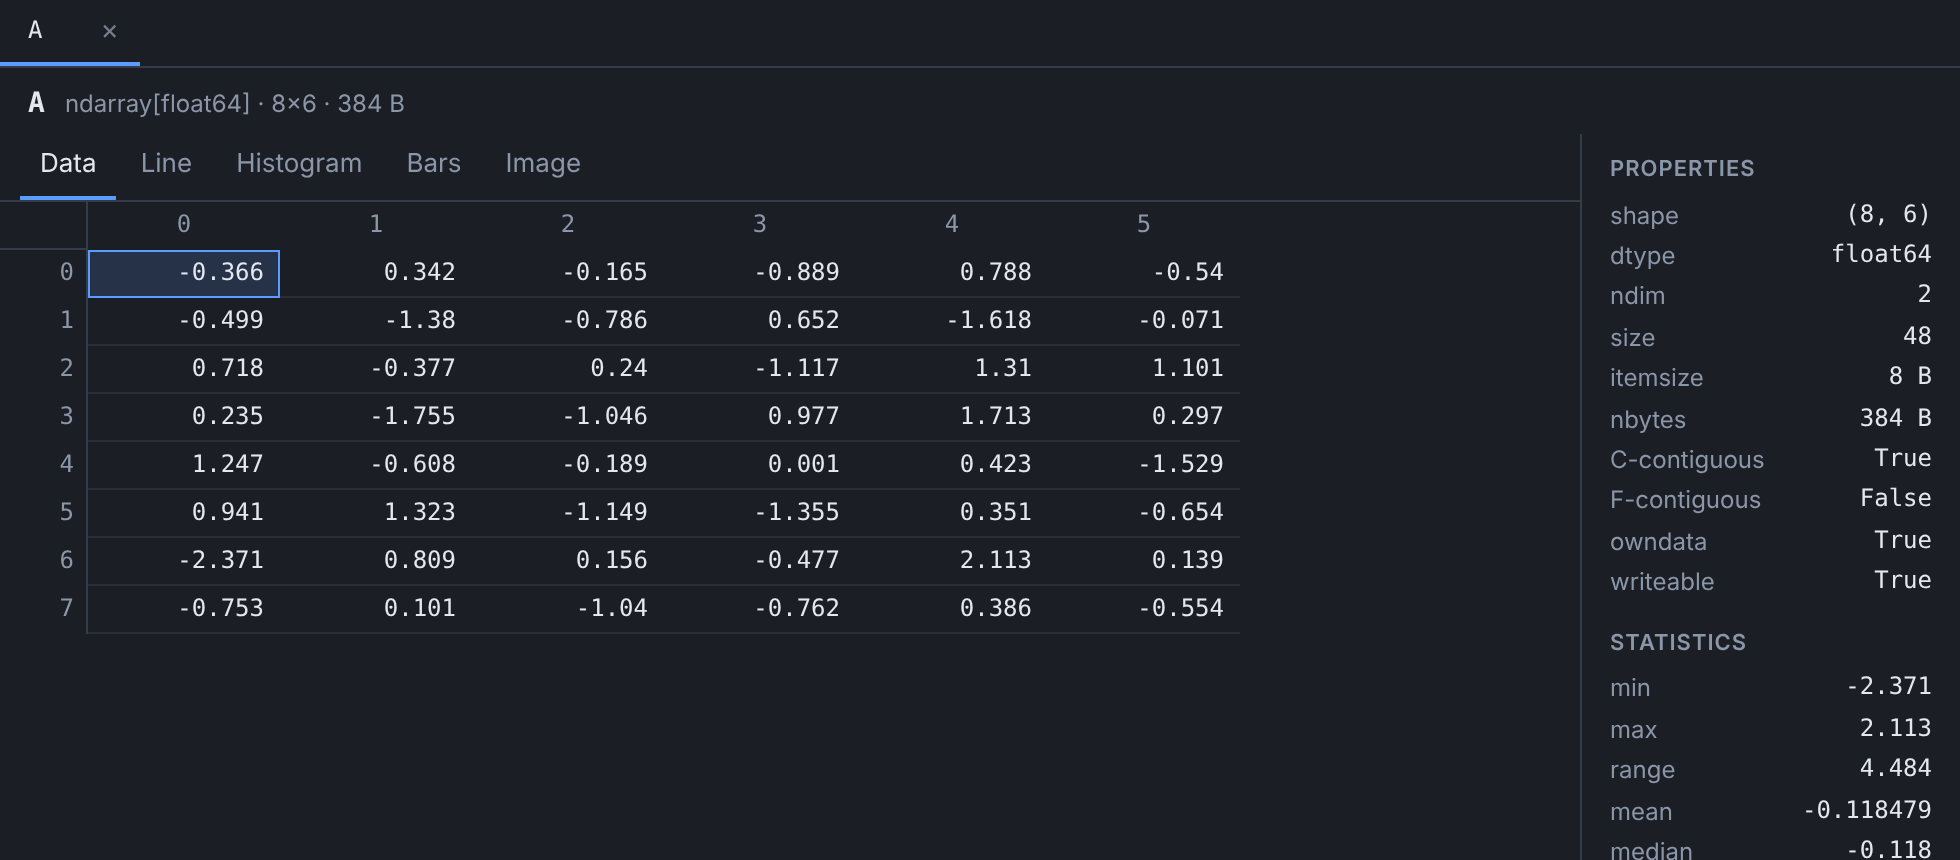
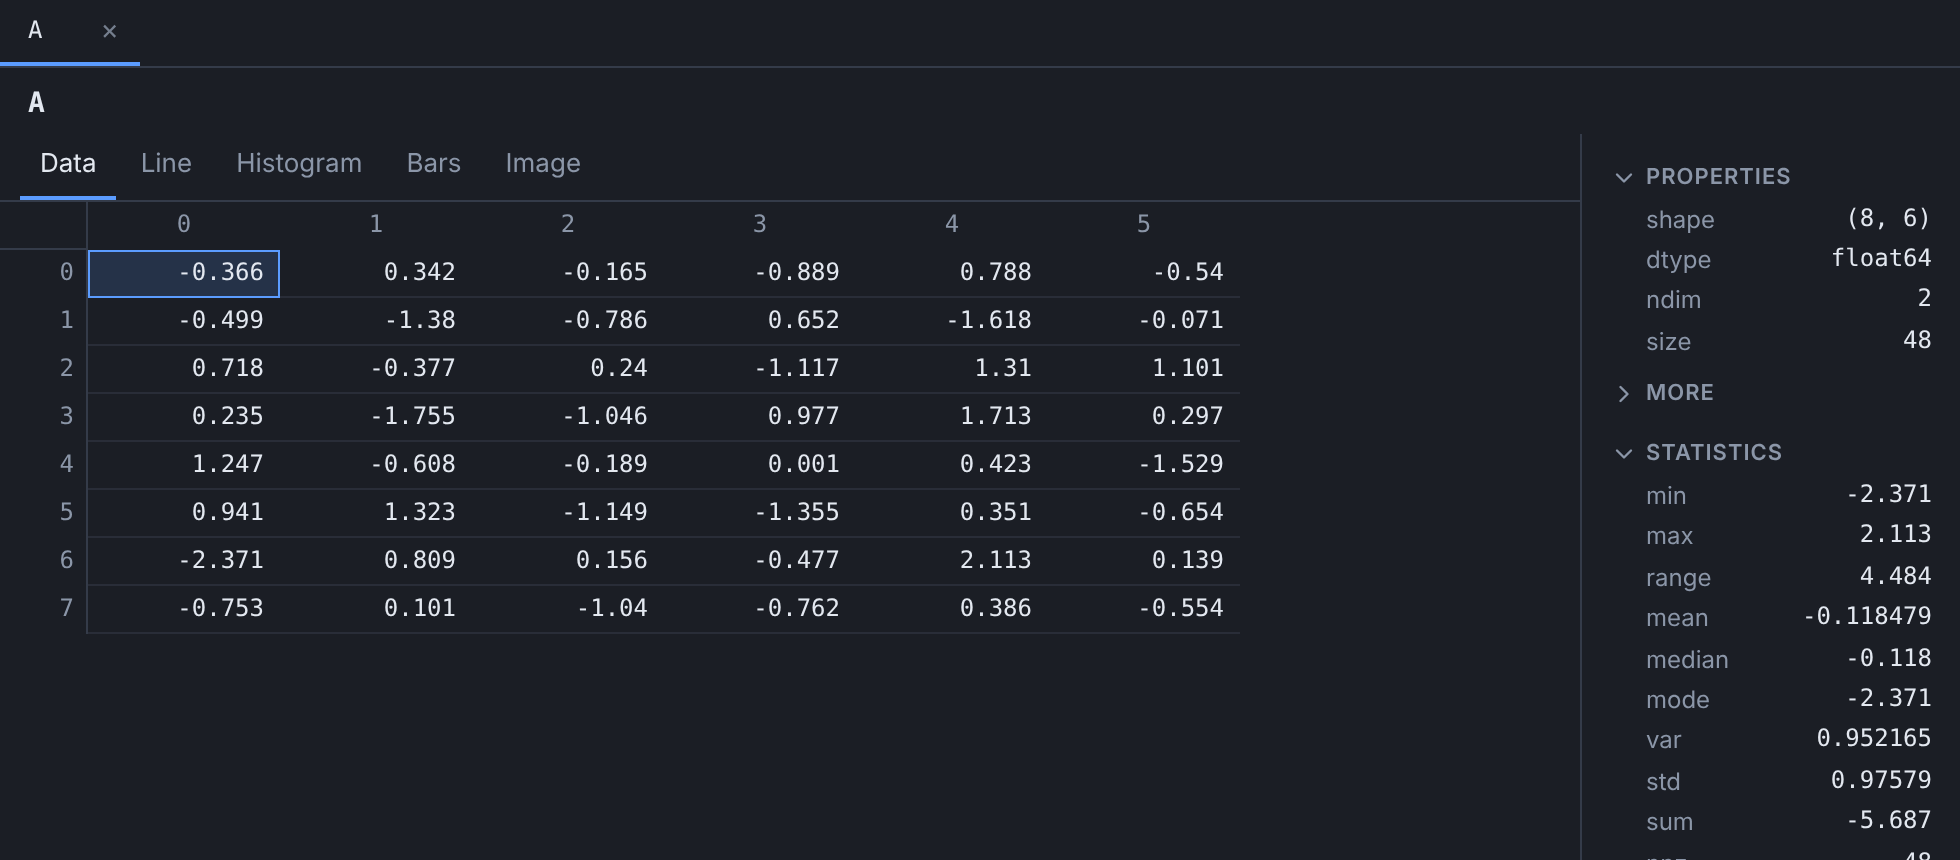
Update v0.3.1

diff --git a/src/workspacepy/static/js/app.js b/src/workspacepy/static/js/app.js
@@ -46,7 +46,11 @@ class App {
   _initChrome() {
     this.$("filter").addEventListener("input", () => this.renderTable());
     this.$("btnRefresh").onclick = () => this.refreshAll();
-    this.$("btnCols").onclick = (e) => { e.stopPropagation(); this._colMenu(e.clientX, e.clientY, this.$("btnCols")); };
+    this.$("btnCols").append(this._colsChev = chevron(false));
+    this.$("btnCols").onclick = (e) => {
+      e.stopPropagation();
+      if (this._colsOpen) this._closeMenus(); else this._colMenu(e.clientX, e.clientY, this.$("btnCols"));
+    };
     this.$("btnLayout").onclick = () => this._setLayout(!this.$("main").classList.contains("vertical"));
     this.$("btnTheme").onclick = () => this._cycleTheme();
     this._setLayout(store.get("vertical", innerWidth < 900 || innerHeight > innerWidth));
@@ -63,15 +67,20 @@ class App {
         this._applyTheme(this._theme);               // redraw canvases with the new colors
       }
     });
-    document.addEventListener("click", () => { this.$("colMenu").classList.add("hidden"); this.$("ctxMenu").classList.add("hidden"); });
-    document.addEventListener("keydown", (e) => { if (e.key === "Escape") { this.$("colMenu").classList.add("hidden"); this.$("ctxMenu").classList.add("hidden"); } });
+    document.addEventListener("click", () => this._closeMenus());
+    document.addEventListener("keydown", (e) => { if (e.key === "Escape") this._closeMenus(); });
+  }
+
+  _closeMenus() {
+    this.$("colMenu").classList.add("hidden"); this.$("ctxMenu").classList.add("hidden");
+    this._colsOpen = false; setChevron(this._colsChev, false); this.$("btnCols").setAttribute("aria-expanded", "false");
   }
 
   _setLayout(vertical) {
     const m = this.$("main"), ws = this.$("wsPane");
     m.classList.toggle("vertical", vertical);
     this.$("splitter").setAttribute("aria-orientation", vertical ? "horizontal" : "vertical");
-    ws.style.flex = vertical ? "0 0 38%" : "0 0 44%";
+    ws.style.flex = "0 0 50%";
     store.set("vertical", vertical);
   }
 
@@ -206,10 +215,12 @@ class App {
       cb.onchange = () => { cb.checked ? this.cols.add(k) : this.cols.delete(k); store.set("cols2", [...this.cols]); this.renderTable(); };
       return el("label", { onclick: (e) => e.stopPropagation() }, cb, label);
     }), el("div", { class: "sep" }), el("label", { onclick: (e) => e.stopPropagation() }, hid, "Show functions & modules"));
-    if (anchor) { const r = anchor.getBoundingClientRect(); x = r.left; y = r.bottom + 4; }
+    this._closeMenus();
+    if (anchor) { const r = anchor.getBoundingClientRect(); x = r.left; y = r.bottom + 4; this._colsOpen = true; setChevron(this._colsChev, true); anchor.setAttribute("aria-expanded", "true"); }
     this._menuAt(m, x, y);
   }
   _ctxMenu(x, y, v) {
+    this._closeMenus();
     const m = this.$("ctxMenu");
     m.replaceChildren(
       el("button", { onclick: () => this.open([v.name]) }, "Open"),

diff --git a/src/workspacepy/static/js/viewers.js b/src/workspacepy/static/js/viewers.js
@@ -58,25 +58,37 @@ class ObjectViewer {
     const i = this.info;
     this.head.replaceChildren(
       el("span", { class: "title", text: i.title }),
-      el("span", { class: "meta", text: `${i.class} · ${i.size} · ${Fmt.bytes(i.bytes)}` }),
       el("span", { class: "sp" }),
       el("button", { class: "icon popout", title: "Open in a separate window", onclick: () => this.app.popOut(this.path) }, "⧉"),
     );
   }
 
+  /* Collapsible side section: a header with an animated chevron, and a body that folds. Open state is remembered. */
+  _section(title, body, openDefault, sub) {
+    const key = "sec." + title, open = store.get(key, openDefault);
+    const wrap = el("section", { class: "sec" + (open ? " open" : "") + (sub ? " sub" : "") });
+    const chev = chevron(open);
+    const head = el("button", { class: "sechead", "aria-expanded": String(open) }, chev, el("span", { text: title }));
+    head.onclick = () => {
+      const now = !wrap.classList.contains("open");
+      wrap.classList.toggle("open", now); head.setAttribute("aria-expanded", String(now)); setChevron(chev, now); store.set(key, now);
+    };
+    wrap.append(head, el("div", { class: "secbody" }, el("div", { class: "secin" }, body)));
+    return wrap;
+  }
+
   _renderSide() {
     const i = this.info, nodes = [];
-    nodes.push(el("h3", { text: "Properties" }));
-    const kv = el("dl", { class: "kv" });
-    for (const [k, v] of i.properties) kv.append(el("dt", { text: k }), el("dd", { text: v }));
-    nodes.push(kv);
+    // Properties: the first rows are always visible, the rest (memory flags, view info...) fold away.
+    const props = i.properties || [], HEAD = 4;
+    const kvOf = (rows) => { const d = el("dl", { class: "kv" }); for (const [k, v] of rows) d.append(el("dt", { text: k }), el("dd", { text: v })); return d; };
+    nodes.push(this._section("Properties", kvOf(props.slice(0, HEAD)), true));
+    if (props.length > HEAD) nodes.push(this._section("More", kvOf(props.slice(HEAD)), false, true));
     const keys = Object.keys(i.stats || {}).filter((k) => i.stats[k] !== null && i.stats[k] !== undefined);
     if (keys.length) {
-      nodes.push(el("h3", { text: "Statistics" }));
       const sk = el("dl", { class: "kv" });
       for (const k of keys) sk.append(el("dt", { text: STAT_LABELS[k] || k }), el("dd", { text: Fmt.num(i.stats[k]) }));
-      nodes.push(sk);
-      if (i.kind === "array" && i.stats.nans) nodes.push(el("div", { class: "hint", text: "min/max/mean… ignore NaNs." }));
+      nodes.push(this._section("Statistics", sk, true));
     }
     this.side.replaceChildren(...nodes);
   }

diff --git a/src/workspacepy/static/style.css b/src/workspacepy/static/style.css
@@ -155,3 +155,20 @@ table.mini th { color: var(--muted); font-weight: 500; position: sticky; top: 0;
 table.mini td.r { text-align: right; font-family: var(--mono); }
 table.mini tr.clickable:hover td { background: var(--hover); }
 .hint { color: var(--muted); font-size: 12px; padding: 4px 0; }
+
+/* ---- animated chevrons (morphicons) and folding sections ---- */
+morph-icon.chev { display: inline-block; width: 14px; height: 14px; color: currentColor; flex: none; }
+morph-icon.chev svg { width: 14px; height: 14px; flex: none; display: block; fill: none; stroke: currentColor; stroke-width: 2; stroke-linecap: round; stroke-linejoin: round; }
+#btnCols { padding: 3px 5px; display: inline-flex; align-items: center; }
+#btnCols[aria-expanded="true"] { color: var(--text); background: var(--hover); }
+#colMenu:not(.hidden) { animation: pop .14s ease-out; transform-origin: top left; }
+@keyframes pop { from { opacity: 0; transform: translateY(-4px) scale(.98); } to { opacity: 1; transform: none; } }
+.vside h3 { display: none; }
+.sec { margin: 0 0 6px; }
+.sec.sub { margin-top: 2px; }
+.sechead { display: flex; align-items: center; gap: 4px; width: 100%; padding: 4px 0; border: 0; border-radius: 4px; background: transparent; color: var(--muted); font-size: 11px; font-weight: 600; letter-spacing: .5px; text-transform: uppercase; text-align: left; }
+.sechead:hover { color: var(--text); background: transparent; }
+.secbody { display: grid; grid-template-rows: 0fr; transition: grid-template-rows .2s ease; }
+.sec.open > .secbody { grid-template-rows: 1fr; }
+.secin { overflow: hidden; min-height: 0; padding-left: 18px; }
+@media (prefers-reduced-motion: reduce) { .secbody { transition: none; } #colMenu:not(.hidden) { animation: none; } }

diff --git a/src/workspacepy/static/index.html b/src/workspacepy/static/index.html
@@ -21,7 +21,7 @@
     <div id="wsTools">
       <span id="status" class="dot" title="Connected" role="status"></span>
       <input type="search" id="filter" placeholder="Filter" aria-label="Filter variables">
-      <button id="btnCols" class="icon" title="Columns" aria-label="Choose columns">▾</button>
+      <button id="btnCols" class="icon" title="Columns" aria-label="Choose columns" aria-expanded="false"></button>
     </div>
     <div id="wsScroll"></div>
   </section>
@@ -38,6 +38,7 @@
 <div id="ctxMenu" class="hidden"></div>
 
 <script src="/vendor/katex/katex.min.js"></script>
+<script src="/vendor/morphicons/morphicons.js"></script>
 <script src="/js/api.js"></script>
 <script src="/js/plots.js"></script>
 <script src="/js/grid.js"></script>

diff --git a/src/workspacepy/static/js/api.js b/src/workspacepy/static/js/api.js
@@ -63,6 +63,11 @@ const Fmt = {
   },
 };
 
+/* Animated chevron (morphicons, MIT): ▸ rotates into ▾ when `open` changes. */
+const CHEVRON = { closed: "m9 18 6-6-6-6", open: "m6 9 6 6 6-6" };
+function chevron(open) { return el("morph-icon", { class: "chev", size: "14", "stroke-width": "2", icon: open ? CHEVRON.open : CHEVRON.closed }); }
+function setChevron(node, open) { if (node) node.setAttribute("icon", open ? CHEVRON.open : CHEVRON.closed); }
+
 function el(tag, attrs, ...kids) {
   const e = document.createElement(tag);
   for (const [k, v] of Object.entries(attrs || {})) {

diff --git a/src/workspacepy/inspectors/arrays.py b/src/workspacepy/inspectors/arrays.py
@@ -1,4 +1,4 @@
-"""Inspectores de arrays: numpy.ndarray y matrices dispersas de scipy.sparse."""
+"""Array inspectors: numpy.ndarray and scipy.sparse matrices."""
 
 from __future__ import annotations
 
@@ -17,7 +17,7 @@ def full_key(arr, index: Sequence[int], row: int, col: int) -> tuple:
     if arr.ndim == 0:
         return ()
     if arr.ndim == 1:
-        return (int(row),)
+        return (int(col),)             # 1-d arrays are displayed as one row
     lead = []
     for k in range(arr.ndim - 2):
         i = int(index[k]) if k < len(index) else 0
@@ -51,11 +51,11 @@ class NumpyInspector(Inspector):
         a = self.obj
         if a.size == 0:
             return "[]"
-        if a.size <= 6 and a.dtype.kind in "biufc":
-            text = np.array2string(a, precision=4, separator=", ", max_line_width=10_000)
-            return " ".join(text.split())
         if a.dtype.kind in "biufc":
-            return f"<{size_label(a.shape)} {a.dtype}>"
+            # Show the content (the shape is in Size and the dtype in Class): [0, 0.101, ..., 10]
+            text = np.array2string(a, precision=4, threshold=6, edgeitems=2, separator=", ", max_line_width=10_000)
+            text = " ".join(text.split()).replace("[ ", "[").replace(" ]", "]")
+            return text if len(text) <= 80 else text[:79] + "…"
         return short_repr(a)
 
     def numeric(self):
@@ -76,10 +76,10 @@ class NumpyInspector(Inspector):
 
     def window(self, r0, r1, c0, c1, index, digits):
         a = self.obj
-        a2 = slice2d(a, index)
+        a2 = a.reshape(1, -1) if a.ndim == 1 else slice2d(a, index)     # vectors are shown as a row
         r0, r1, c0, c1 = clamp_window(a2.shape[0], a2.shape[1], r0, r1, c0, c1)
         values = a2[r0:r1, c0:c1].tolist()
-        col_labels = ["value"] if a.ndim <= 1 else None
+        col_labels = None
         return make_window(
             values, a2.shape[0], a2.shape[1], r0, c0, digits, col_labels=col_labels,
             lead_shape=list(a.shape[:-2]) if a.ndim > 2 else [], index=lead_index(a, index),
@@ -101,7 +101,7 @@ class NumpyInspector(Inspector):
 
 @register
 class SparseInspector(Inspector):
-    """Matrices/arrays dispersos de scipy.sparse (csr, csc, coo, lil, dok, dia, bsr)."""
+    """scipy.sparse matrices/arrays (csr, csc, coo, lil, dok, dia, bsr)."""
 
     kind = "array"
     priority = 80
@@ -126,7 +126,7 @@ class SparseInspector(Inspector):
         return total or deep_sizeof(self.obj)
 
     def preview(self) -> str:
-        return f"<{size_label(self.shape())} sparse {self.obj.format}, nnz={self.obj.nnz}>"
+        return f"sparse {self.obj.format}, nnz={self.obj.nnz}"
 
     def _n_elements(self) -> int:
         r, c = self.obj.shape[:2]
@@ -142,8 +142,8 @@ class SparseInspector(Inspector):
         n = self._n_elements()
         density = (m.nnz / n) if n else 0.0
         return [
-            ("formato", str(m.format)), ("shape", str(tuple(m.shape))), ("dtype", str(m.dtype)),
-            ("nnz", str(m.nnz)), ("densidad", f"{density:.4g}"), ("nbytes (almacenado)", f"{self.nbytes()} B"),
+            ("format", str(m.format)), ("shape", str(tuple(m.shape))), ("dtype", str(m.dtype)),
+            ("nnz", str(m.nnz)), ("density", f"{density:.4g}"), ("nbytes (stored)", f"{self.nbytes()} B"),
         ]
 
     def window(self, r0, r1, c0, c1, index, digits):

diff --git a/src/workspacepy/__init__.py b/src/workspacepy/__init__.py
@@ -1,30 +1,6 @@
-"""WorkspacePy — a MATLAB-style workspace for Jupyter / VS Code.
+"""Registered inspectors. Importing this package registers all of them."""
 
-Minimal usage in a notebook::
+from .base import Inspector, inspector_for, register, registered_inspectors  # noqa: F401
+from . import arrays, generic, symbolic, tabular  # noqa: F401  (side effect: @register)
 
-    import workspacepy
-    ws = workspacepy.start()      # prints short instructions; the VS Code extension opens it automatically
-    ws.open()                     # or open it in your browser
-
-or with the IPython magic::
-
-    %load_ext workspacepy
-"""
-
-from .api import (  # noqa: F401
-    Handle,
-    active,
-    load_ipython_extension,
-    start,
-    stop,
-    unload_ipython_extension,
-)
-from .inspectors import Inspector, register  # noqa: F401
-from .stats import compute_stats  # noqa: F401
-from .workspace import Workspace, WorkspaceError  # noqa: F401
-
-__version__ = "0.3.0"
-__all__ = [
-    "start", "stop", "active", "Handle", "Workspace", "WorkspaceError",
-    "Inspector", "register", "compute_stats", "load_ipython_extension", "unload_ipython_extension",
-]
+__all__ = ["Inspector", "inspector_for", "register", "registered_inspectors"]

diff --git a/tests/test_inspectors.py b/tests/test_inspectors.py
@@ -48,13 +48,16 @@ def test_nd_slice_window():
 
 def test_0d_and_1d_arrays():
     assert inspector_for(np.array(5.0)).window(0, 1, 0, 1, [], 6)["cells"] == [["5"]]
-    w = inspector_for(np.array([1.0, 2.0])).window(0, 2, 0, 1, [], 6)
-    assert w["cells"] == [["1"], ["2"]]
+    w = inspector_for(np.array([1.0, 2.0])).window(0, 1, 0, 2, [], 6)   # a vector is displayed as a row
+    assert w["cells"] == [["1", "2"]] and w["nrows"] == 1 and w["ncols"] == 2
+    v = np.zeros(3); i = inspector_for(v)
+    i.set_item([], 0, 2, "7"); assert v[2] == 7             # editing the displayed row writes to the right element
+    assert i.size_label() == "1×3" and "<" not in i.preview()
 
 
 def test_complex_formatting():
-    w = inspector_for(np.array([1 + 2j, 3 - 1j])).window(0, 2, 0, 1, [], 6)
-    assert w["cells"] == [["1 + 2j"], ["3 - 1j"]]
+    w = inspector_for(np.array([1 + 2j, 3 - 1j])).window(0, 1, 0, 2, [], 6)
+    assert w["cells"] == [["1 + 2j", "3 - 1j"]]
 
 
 def test_scalar_string_list_dict():

diff --git a/src/workspacepy/inspectors/generic.py b/src/workspacepy/inspectors/generic.py
@@ -141,10 +141,10 @@ class SequenceInspector(Inspector):
         arr = self.numeric()
         if arr is None or arr.ndim not in (1, 2):
             return None
-        a2 = arr.reshape(-1, 1) if arr.ndim == 1 else arr
+        a2 = arr.reshape(1, -1) if arr.ndim == 1 else arr        # vectors are shown as a row
         r0, r1, c0, c1 = clamp_window(a2.shape[0], a2.shape[1], r0, r1, c0, c1)
         return make_window(a2[r0:r1, c0:c1].tolist(), a2.shape[0], a2.shape[1], r0, c0, digits,
-                           col_labels=["value"] if arr.ndim == 1 else None, editable=False, lead_shape=[], index=[])
+                           editable=False, lead_shape=[], index=[])
 
 
 @register

diff --git a/src/workspacepy/util.py b/src/workspacepy/util.py
@@ -135,4 +135,6 @@ def size_label(shape) -> str:
         return "1×1"
     if len(shape) == 0:
         return "()"
+    if len(shape) == 1:
+        return f"1×{int(shape[0])}"      # MATLAB style: a vector is a row
     return "×".join(str(int(s)) for s in shape)

diff --git a/README.md b/README.md
@@ -162,10 +162,10 @@ Both are fully movable: the **Variable Viewer is a normal editor tab** (drag it 
 
 ### Install the extension
 
-The repository ships a ready-to-install file, `vscode-extension/workspacepy-0.3.0.vsix`.
+The repository ships a ready-to-install file, `vscode-extension/workspacepy-0.3.1.vsix`.
 
 - **VS Code UI:** *Extensions* panel → `···` menu → **Install from VSIX…** → pick the file.
-- **Terminal:** `code --install-extension vscode-extension/workspacepy-0.3.0.vsix`
+- **Terminal:** `code --install-extension vscode-extension/workspacepy-0.3.1.vsix`
 - **Rebuild it yourself:** `cd vscode-extension && npx @vscode/vsce package`
 
 ### Arrange the layout (one time)
@@ -261,6 +261,12 @@ workspacepy.start(globals())                    # outside Jupyter: pass your nam
 ws.open() · ws.show(height=500) · ws.refresh() · ws.instructions() · ws.url
 workspacepy.stop()
 ```
+
+---
+
+## 🙏 Credits
+
+Animated chevrons use [morphicons](https://www.morphicons.com) (MIT, vendored in `static/vendor/morphicons`); LaTeX rendering uses [KaTeX](https://katex.org) (MIT).
 
 ---
 
